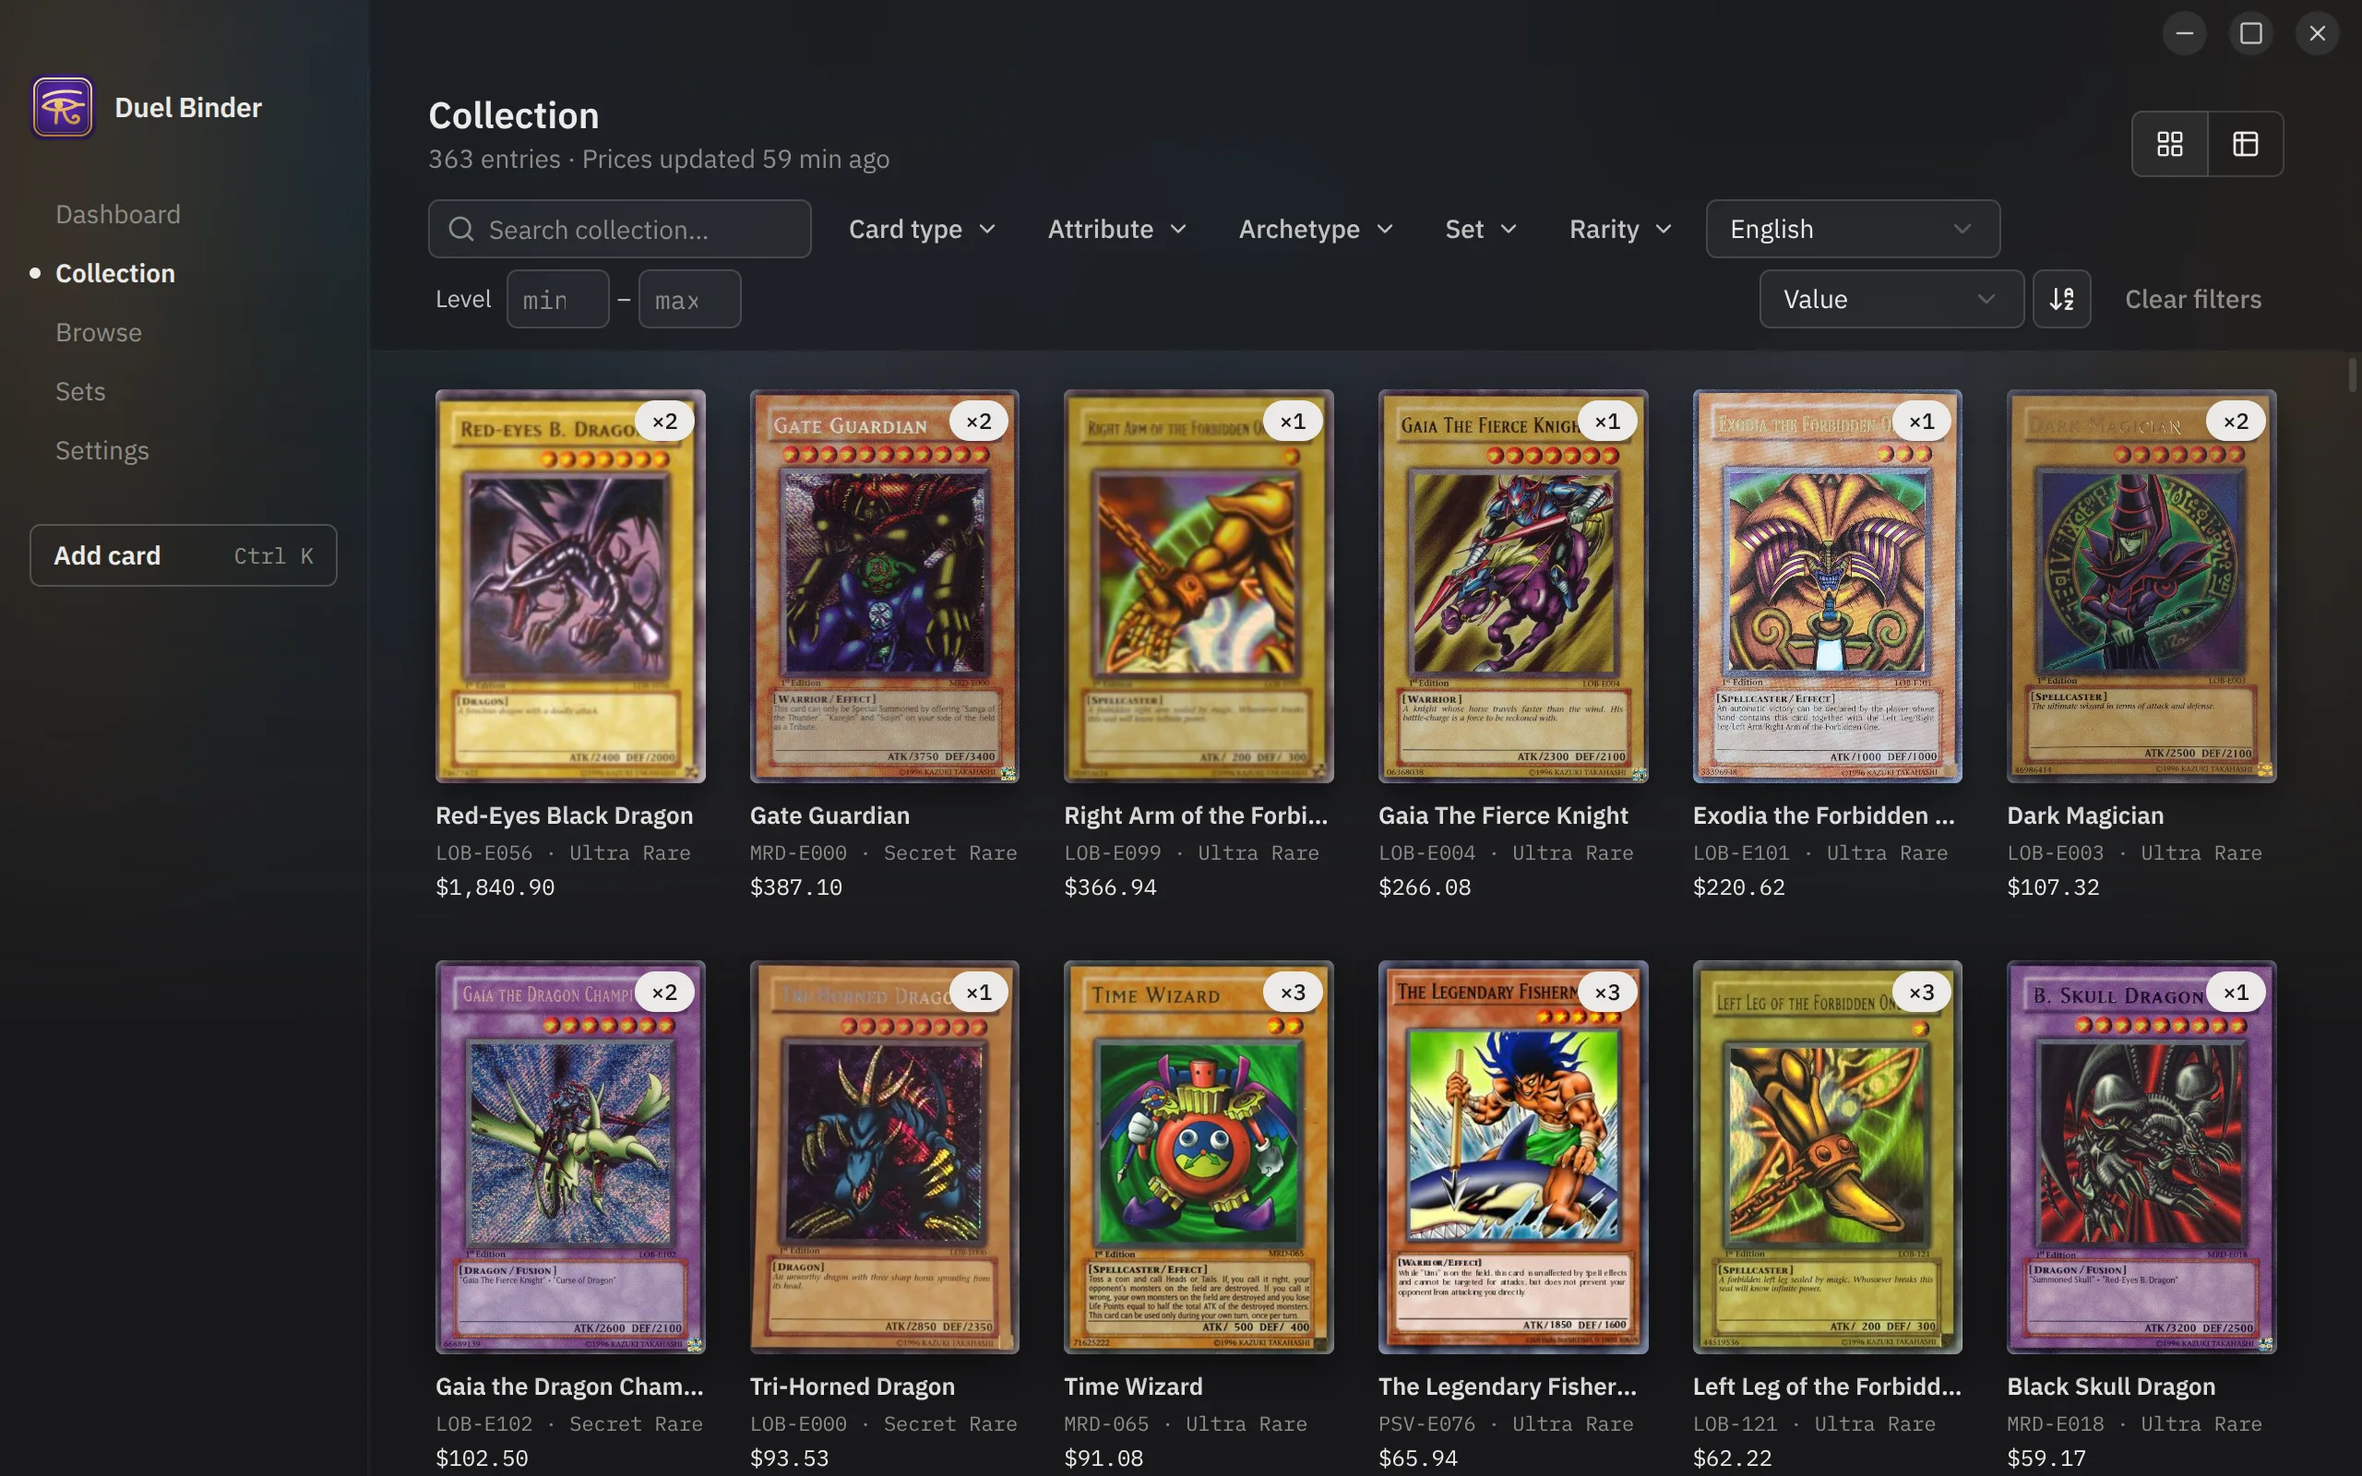
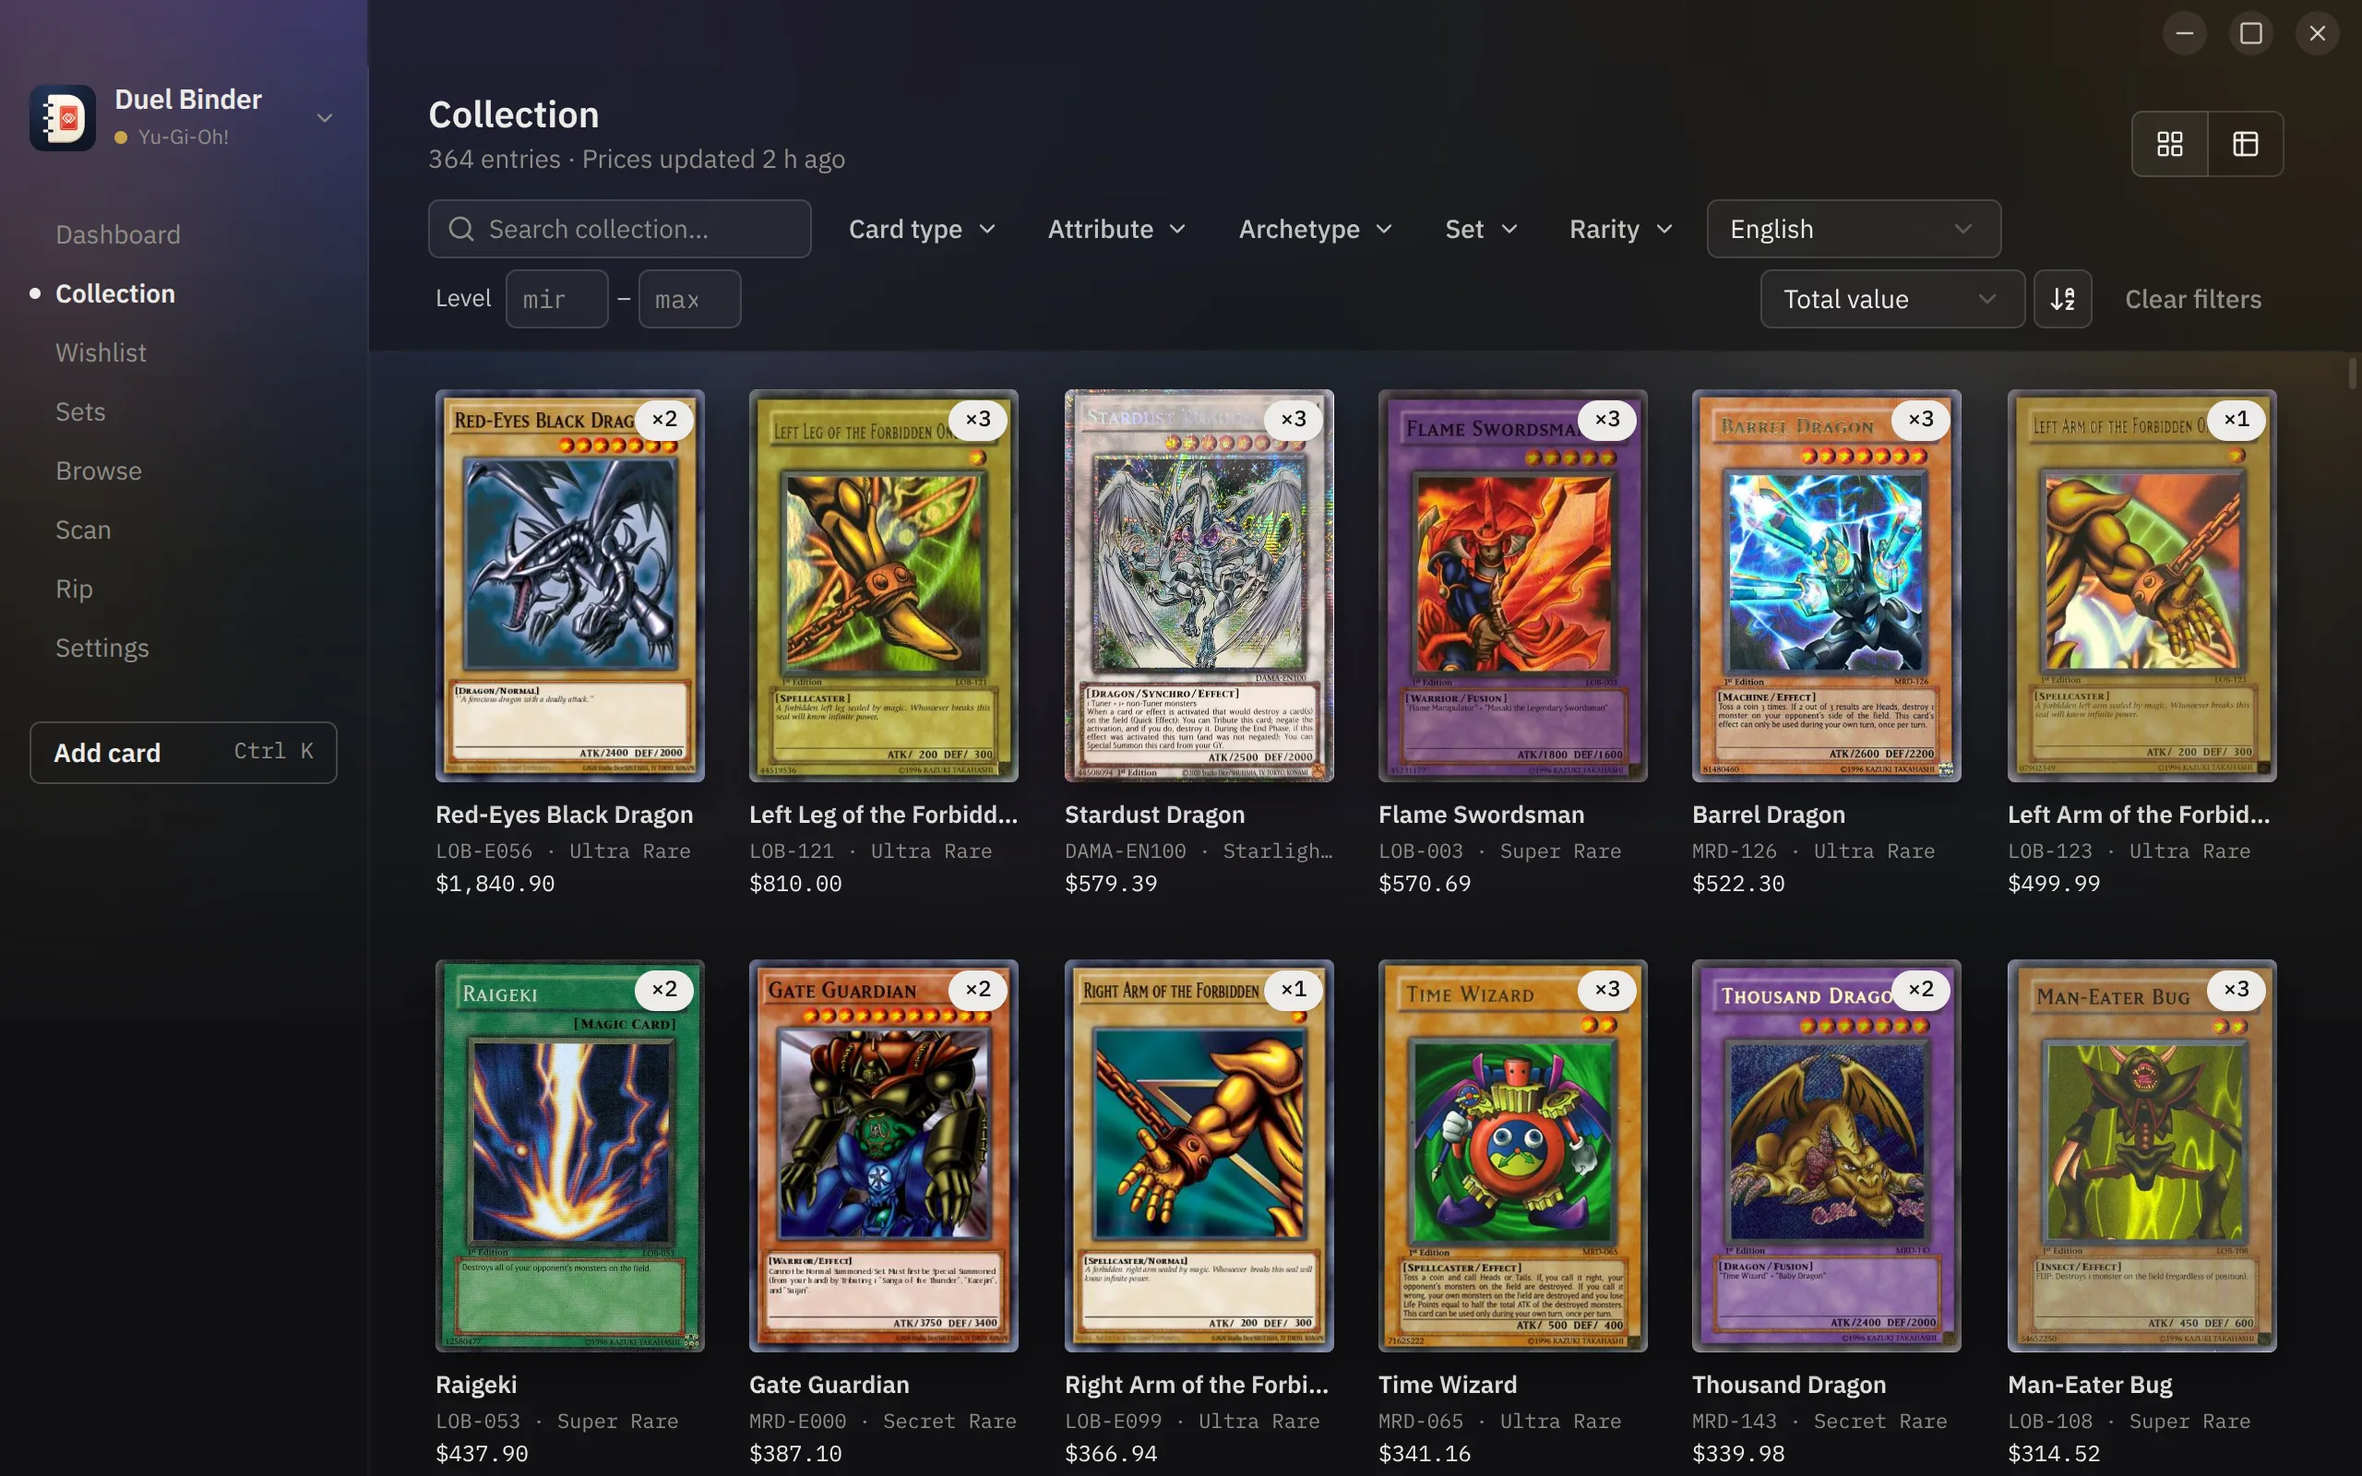
feat(site): show Pokémon in the screenshots
Captures now run off screen from a copy of the local catalog with everything personal deleted, for both games.

diff --git a/src/main/index.ts b/src/main/index.ts
@@ -31,12 +31,13 @@ import { createUpdater, updateMode, RELEASES_URL } from './updater'
 import { restrictPermissions } from './permissions'
 import { createScanWindowManager, type Rect, type ScanWindowManager } from './scanWindow'
 import { createHandlers, registerIpc, type AppDeps } from './ipc/handlers'
-import { seedFakeCollection } from './dev/fakeData'
+import { seedFakeCollection, seedFakePokemon } from './dev/fakeData'
 import { resolveUserData } from './userData'
-import { captureShots } from './dev/capture'
+import { captureShots, SHOTS } from './dev/capture'
 import { createAccountService } from './cloud/account'
 import { createCloudClient } from './cloud/client'
-import type { GameId } from '@shared/games'
+import { GAME_IDS, type GameId } from '@shared/games'
+import { setMeta } from './db/meta'
 import type { FingerprintStore } from './scan/fingerprints'
 import { createFingerprintStore } from './scan/fingerprints'
 import { createOcr } from './scan/ocr'
@@ -66,6 +67,8 @@ app.setPath(
  *  `npm run site:shots`: screenshots of that profile for the marketing site, then quit. */
 const captureDir = !app.isPackaged ? process.env['YGO_CAPTURE_DIR'] : undefined
 const fakeData = !app.isPackaged && (process.env['YGO_FAKE_DATA'] === '1' || !!captureDir)
+/** The game to capture, in a profile scripts/site/shots.sh filled with both games' catalogs. */
+const captureGame: GameId = process.env['YGO_CAPTURE_GAME'] === 'pkm' ? 'pkm' : 'ygo'
 if (captureDir) app.commandLine.appendSwitch('force-device-scale-factor', '2')
 // Capture uses its own profile so it never collides with a running dev session's instance lock.
 if (fakeData)
@@ -164,7 +167,9 @@ function createWindow(): void {
       preload: join(__dirname, '../preload/index.js'),
       contextIsolation: true,
       nodeIntegration: false,
-      sandbox: true
+      sandbox: true,
+      // Captures stay off screen.
+      offscreen: !!captureDir
     }
   })
 
@@ -178,9 +183,9 @@ function createWindow(): void {
   }
   win.on('maximize', sendMaximized)
   win.on('unmaximize', sendMaximized)
-  windowShown = new Promise((r) => win.once('show', () => r()))
+  windowShown = new Promise((r) => win.once(captureDir ? 'ready-to-show' : 'show', () => r()))
   win.on('ready-to-show', () => {
-    win.show()
+    if (!captureDir) win.show()
   })
 
   guardNavigation(win)
@@ -249,6 +254,7 @@ async function bootstrap(): Promise<void> {
   }
   if (fakeData) {
     seedFakeCollection(db)
+    seedFakePokemon(db)
     // Already seeded by an earlier run, or just now: nothing to wait for.
     if (db.prepare('SELECT 1 FROM collection_entries WHERE deleted_at IS NULL LIMIT 1').get())
       markSeeded()
@@ -376,13 +382,14 @@ async function bootstrap(): Promise<void> {
       app: appDeps,
       window: windowDeps,
       scanWindow,
-      account,
+      account: fakeData ? { ...account, games: () => [...GAME_IDS] } : account,
       emitDataChanged,
       fingerprints,
       ocr
     })
   )
 
+  if (captureDir) setMeta(db, 'active_game', captureGame)
   createWindow()
   updater.start()
   account.start()
@@ -393,7 +400,7 @@ async function bootstrap(): Promise<void> {
       .then(async () => {
         if (!win) throw new Error('No window to capture')
         await new Promise((r) => setTimeout(r, 2000))
-        console.log((await captureShots(win, resolve(captureDir))).join('\n'))
+        console.log((await captureShots(win, resolve(captureDir), SHOTS[captureGame])).join('\n'))
         app.quit()
       })
       .catch((e) => {
@@ -403,7 +410,8 @@ async function bootstrap(): Promise<void> {
   }
 
   recordSnapshot(db)
-  if (fakeData) {
+  // A capture's profile comes with its catalog.
+  if (fakeData && !captureDir) {
     void startDirectCatalog(db, {
       version: app.getVersion(),
       onSyncProgress: emitSync,

diff --git a/src/main/dev/fakeData.ts b/src/main/dev/fakeData.ts
@@ -9,6 +9,14 @@ const SET_PLAN: [setName: string, share: number][] = [
   ["Pharaoh's Servant", 0.35],
   ['Spell Ruler', 0.15]
 ]
+const PKM_SET_PLAN: [setName: string, share: number][] = [
+  ['Base Set', 0.7],
+  ['Jungle', 0.5],
+  ['Fossil', 0.5],
+  ['151', 0.5],
+  ['Evolving Skies', 0.3],
+  ['Prismatic Evolutions', 0.3]
+]
 const EXTRA_PRINTINGS = 60
 const HISTORY_DAYS = 90
 const SEED = 0x59474f
@@ -65,7 +73,7 @@ export function seedFakeCollection(db: Database.Database, now = new Date()): num
   }
 
   const allPrintings = (
-    db.prepare(`SELECT id FROM card_printings WHERE missing_from_api = 0 AND language = 'en' ORDER BY id`).all() as {
+    db.prepare(`SELECT id FROM card_printings WHERE missing_from_api = 0 AND language = 'en' AND card_id IN (SELECT id FROM cards WHERE game = 'ygo') ORDER BY id`).all() as {
       id: number
     }[]
   ).map((r) => r.id)
@@ -107,6 +115,44 @@ export function seedFakeCollection(db: Database.Database, now = new Date()): num
       )
     }
     recordSnapshot(db, now)
+  })()
+  return inserted
+}
+
+/**
+ * Adds sample Pokémon entries to a profile whose catalog has Pokémon (the site's screenshots).
+ * No-op once it holds any. Returns the number of entries inserted.
+ */
+export function seedFakePokemon(db: Database.Database, now = new Date()): number {
+  const has = `SELECT 1 FROM collection_entries e JOIN card_printings p ON p.id = e.printing_id
+     JOIN cards c ON c.id = p.card_id WHERE c.game = 'pkm' AND e.deleted_at IS NULL LIMIT 1`
+  if (db.prepare(has).get()) return 0
+
+  const rand = rng(SEED)
+  const printings = db.prepare(
+    `SELECT p.id, p.card_id, i.image_id FROM card_printings p
+     JOIN cards c ON c.id = p.card_id JOIN card_images i ON i.card_id = p.card_id
+     WHERE c.game = 'pkm' AND p.set_name = ? AND p.language = 'en' AND p.missing_from_api = 0
+     ORDER BY p.id`
+  )
+  const insert = db.prepare(
+    `INSERT OR IGNORE INTO collection_entries (uid, game, printing_id, image_id, quantity, notes, created_at, updated_at)
+     VALUES (?, 'pkm', ?, ?, ?, '', ?, ?)`
+  )
+  let inserted = 0
+  db.transaction(() => {
+    const ts = now.toISOString()
+    for (const [setName, share] of PKM_SET_PLAN) {
+      const byCard = new Map<number, { id: number; image_id: number }[]>()
+      for (const p of printings.all(setName) as { id: number; card_id: number; image_id: number }[])
+        byCard.set(p.card_id, [...(byCard.get(p.card_id) ?? []), p])
+      const owned = shuffle([...byCard.values()], rand).slice(0, Math.ceil(byCard.size * share))
+      for (const versions of owned) {
+        const p = versions[Math.floor(rand() * versions.length)]
+        const quantity = 1 + Math.floor(rand() * 3)
+        inserted += insert.run(crypto.randomUUID(), p.id, p.image_id, quantity, ts, ts).changes
+      }
+    }
   })()
   return inserted
 }

diff --git a/src/main/dev/capture.ts b/src/main/dev/capture.ts
@@ -1,6 +1,7 @@
 import { mkdirSync, writeFileSync } from 'node:fs'
 import { join } from 'node:path'
 import type { BrowserWindow } from 'electron'
+import type { GameId } from '../../shared/games'
 
 /** Dev-only screenshot capture for the marketing site (YGO_CAPTURE_DIR); never runs when packaged. */
 export interface Shot {
@@ -8,11 +9,16 @@ export interface Shot {
   clicks: string[]
 }
 
-export const SHOTS: Shot[] = [
-  { file: 'collection.png', clicks: ['Collection', 'Date added', 'Value'] },
-  { file: 'dashboard.png', clicks: ['Dashboard'] },
-  { file: 'sets.png', clicks: ['Sets', 'Metal Raiders'] }
-]
+export const SHOTS: Record<GameId, Shot[]> = {
+  ygo: [
+    { file: 'collection.png', clicks: ['Collection', 'Date added', 'Total value'] },
+    { file: 'dashboard.png', clicks: ['Dashboard'] }
+  ],
+  pkm: [
+    { file: 'collection-pokemon.png', clicks: ['Collection', 'Date added', 'Total value'] },
+    { file: 'sets.png', clicks: ['Sets', 'Base Set'] }
+  ]
+}
 
 const sleep = (ms: number): Promise<void> => new Promise((r) => setTimeout(r, ms))
 
@@ -42,11 +48,26 @@ async function waitForImages(win: Pick<BrowserWindow, 'webContents'>): Promise<v
   await sleep(500)
 }
 
+/** The page at 2x; an off-screen window ignores the app's scale factor. */
+async function png(win: Pick<BrowserWindow, 'webContents'>): Promise<Buffer> {
+  const cdp = win.webContents.debugger
+  if (!cdp.isAttached()) cdp.attach()
+  await cdp.sendCommand('Emulation.setDeviceMetricsOverride', {
+    width: 1280,
+    height: 800,
+    deviceScaleFactor: 2,
+    mobile: false
+  })
+  await sleep(500)
+  const { data } = await cdp.sendCommand('Page.captureScreenshot', { format: 'png' })
+  return Buffer.from(data, 'base64')
+}
+
 /** Runs each shot's clicks, waits for images to load, and saves the window as a PNG in `dir`. */
 export async function captureShots(
   win: Pick<BrowserWindow, 'webContents'>,
   dir: string,
-  shots: Shot[] = SHOTS
+  shots: Shot[] = SHOTS.ygo
 ): Promise<string[]> {
   mkdirSync(dir, { recursive: true })
   const written: string[] = []
@@ -57,9 +78,8 @@ export async function captureShots(
       await sleep(400)
     }
     await waitForImages(win)
-    const image = await win.webContents.capturePage()
     const path = join(dir, shot.file)
-    writeFileSync(path, image.toPNG())
+    writeFileSync(path, await png(win))
     written.push(path)
   }
   return written

diff --git a/src/main/dev/directSources.ts b/src/main/dev/directSources.ts
@@ -9,6 +9,7 @@ import {
   setImageUrl,
   YUGIPEDIA_IMAGE_PREFIX
 } from '../../shared/imageSources'
+import { PKM_ID_MIN } from '../../shared/games'
 import type { ImageSources } from '../images/cache'
 import { printingImageKey } from '../images/cache'
 import { findPokemonSetArtUrl, findSetImageUrl } from '../repo/sets'
@@ -42,9 +43,24 @@ export function directImageSources(opts: {
     return url !== null && url.startsWith(prefix) ? { url, headers } : null
   }
   return {
-    card: (size, id) => ({ url: imageUrl(size, id) }),
+    card(size, id) {
+      if (id < PKM_ID_MIN) return { url: imageUrl(size, id) }
+      const row = opts.db
+        .prepare(
+          'SELECT pc.image_url FROM card_images ci JOIN pokemon_cards pc ON pc.card_id = ci.card_id WHERE ci.image_id = ?'
+        )
+        .get(id) as { image_url: string | null } | undefined
+      if (!row?.image_url) return null
+      const low = size !== 'full'
+      return row.image_url.startsWith('https://assets.tcgdex.net/')
+        ? { url: `${row.image_url}/${low ? 'low' : 'high'}.webp` }
+        : { url: low ? row.image_url : row.image_url.replace(/_200w\.jpg$/, '_in_1000x1000.jpg') }
+    },
     set(key) {
       const source = key.slice(0, 3)
+      const tcgdexLogo = findSetImageUrl(opts.db, key)
+      if (tcgdexLogo?.startsWith('https://assets.tcgdex.net/'))
+        return { url: `${tcgdexLogo}.webp` }
       if (source === 'yp-') return resolved(key, YUGIPEDIA_IMAGE_PREFIX)
       if (source === 'yc-') return resolved(key, PACK_ART_PREFIX)
       if (source === 'bp-') return resolved(key, BULBAGARDEN_IMAGE_PREFIX, findPokemonSetArtUrl)

diff --git a/tests/main/capture.test.ts b/tests/main/capture.test.ts
@@ -17,7 +17,10 @@ function fakeWin(found: (script: string) => boolean = () => true) {
         scripts.push(script)
         return script.includes('.click()') ? found(script) : true
       },
-      capturePage: async () => ({ toPNG: () => Buffer.from('png') })
+      debugger: {
+        isAttached: () => true,
+        sendCommand: async () => ({ data: Buffer.from('png').toString('base64') })
+      }
     }
   }
   return { win: win as never, scripts }
@@ -47,7 +50,8 @@ describe('captureShots', () => {
     )
   })
 
-  it('defines the three site shots', () => {
-    expect(SHOTS.map((s) => s.file)).toEqual(['collection.png', 'dashboard.png', 'sets.png'])
+  it('defines the site shots of each game', () => {
+    expect(SHOTS.ygo.map((s) => s.file)).toEqual(['collection.png', 'dashboard.png'])
+    expect(SHOTS.pkm.map((s) => s.file)).toEqual(['collection-pokemon.png', 'sets.png'])
   })
 })

diff --git a/workers/portal/src/site/page.ts b/workers/portal/src/site/page.ts
@@ -63,9 +63,15 @@ function features(): string {
     ),
     feature(
       '',
+      'Yu-Gi-Oh! and Pokémon',
+      'Both games in one app. Switch between them from the sidebar, each with its own collection and prices.',
+      { src: '/shots/collection-pokemon.webp', alt: 'The Collection page showing Pokémon cards sorted by value, with filters for category, type, stage, rarity, set and version.' },
+    ),
+    feature(
+      '',
       'Finish your sets',
       'Every set and printing from the full catalog, with a checklist of what you still need.',
-      { src: '/shots/sets.webp', alt: 'The Sets page showing Metal Raiders with 101 of 144 cards owned; the cards still missing are greyed out.' },
+      { src: '/shots/sets.webp', alt: 'The Sets page showing the Pokémon Base Set with 72 of 102 cards owned; the cards still missing are greyed out.' },
     ),
     feature(
       '',

diff --git a/tests/portal/site-page.test.ts b/tests/portal/site-page.test.ts
@@ -138,7 +138,7 @@ describe('renderPage', () => {
     expect(html).toContain('<meta property="og:url" content="https://duelbinder.com/">')
     expect(html).toContain('<meta name="twitter:card" content="summary_large_image">')
     const imgs = html.match(/<img [^>]*>/g)!.filter((img) => img.includes('/shots/'))
-    expect(imgs).toHaveLength(3)
+    expect(imgs).toHaveLength(4)
     for (const img of imgs) {
       expect(img).toContain('width="2560" height="1600"')
       expect(img).toMatch(/alt="[^"]+"/)
